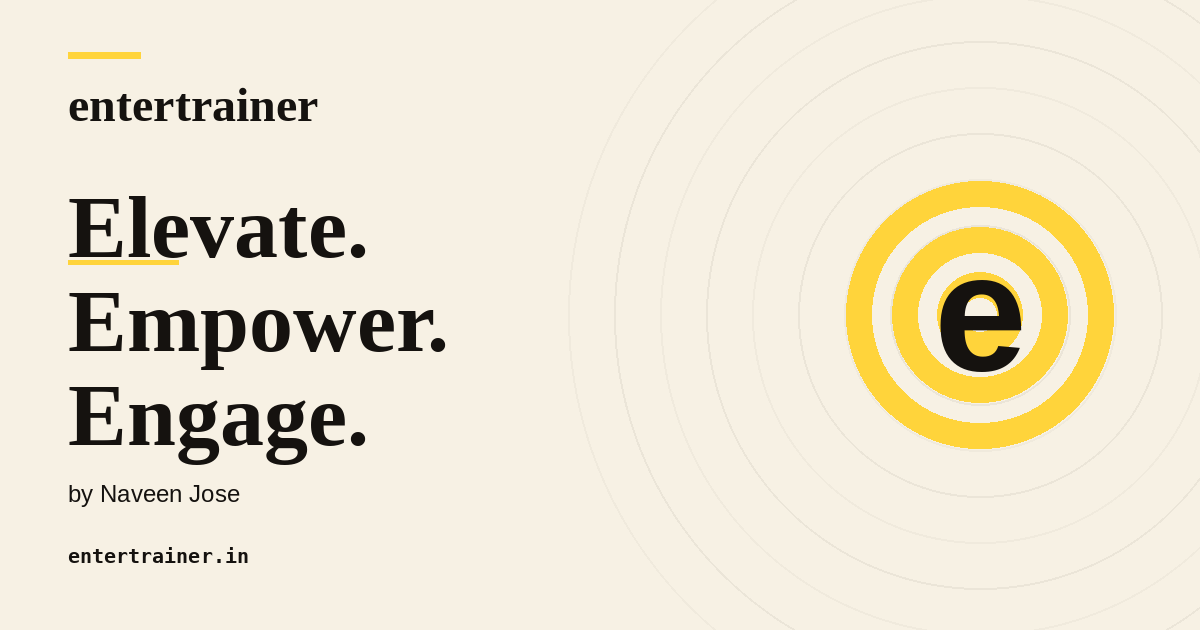
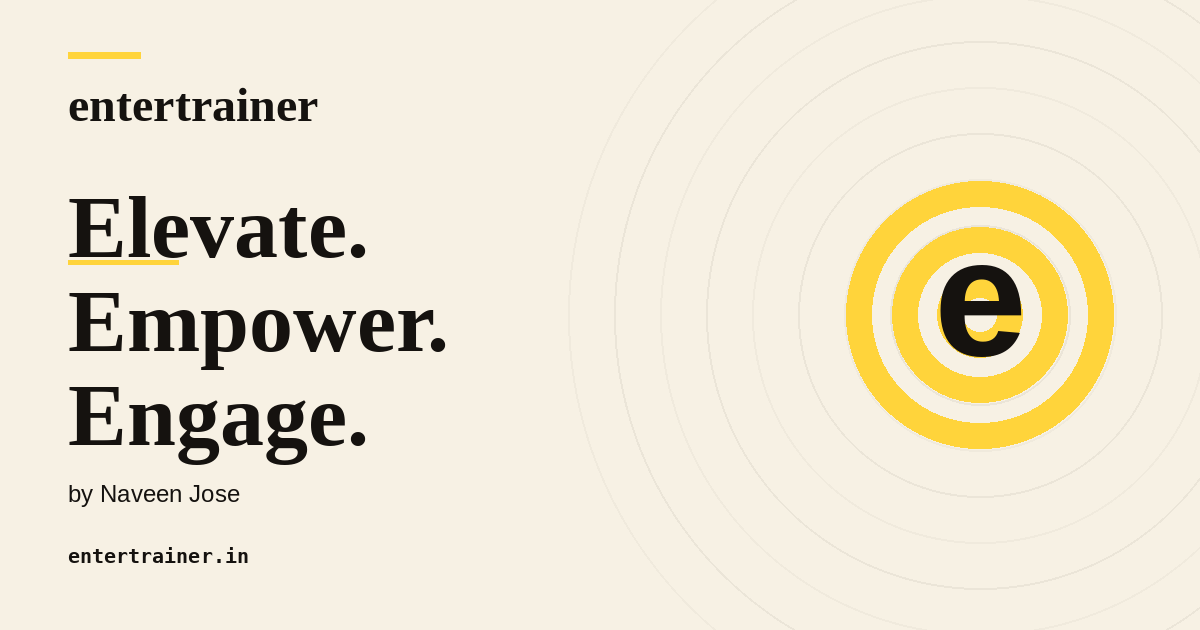
OG e-mark: lift letter for optical center inside rings.

Changed region(s): [[0.7708, 0.4222, 0.8633, 0.6032]]

diff --git a/content/social-previews.ts b/content/social-previews.ts
@@ -18,7 +18,7 @@ export const SOCIAL_PREVIEWS: Record<string, SocialPreview> = {
     label: 'Stories, tools, and play',
     title: 'Entertrainer · Elevate, Empower, Engage',
     description: 'Essays, tools, and games from Naveen Jose.',
-    image: `${SITE_URL}/og-card-2026c.png`,
+    image: `${SITE_URL}/og-card-2026d.png`,
     imageAlt: 'Entertrainer e-mark with Elevate, Empower, Engage.'
   },
   '/about': {
@@ -34,7 +34,7 @@ export const SOCIAL_PREVIEWS: Record<string, SocialPreview> = {
     label: 'The Entertrainer Blogs',
     title: 'Elevate · The Entertrainer Blogs',
     description: 'Articles about work, learning, technology, and the questions that stay with you.',
-    image: `${SITE_URL}/og-card-2026c.png`,
+    image: `${SITE_URL}/og-card-2026d.png`,
     imageAlt: 'Entertrainer Elevate — essays and articles.'
   },
   [`/elevate/${ENTROPY_BLOG.slug}`]: {

diff --git a/pages/elevate/index.vue b/pages/elevate/index.vue
@@ -14,7 +14,7 @@ useSeoMeta({
   ogTitle: 'Elevate · MUST',
   ogDescription: 'Mind · Universe · Science · Technology.',
   ogUrl: 'https://entertrainer.in/elevate',
-  ogImage: 'https://entertrainer.in/og-card-2026c.png'
+  ogImage: 'https://entertrainer.in/og-card-2026d.png'
 })
 
 useHead({
